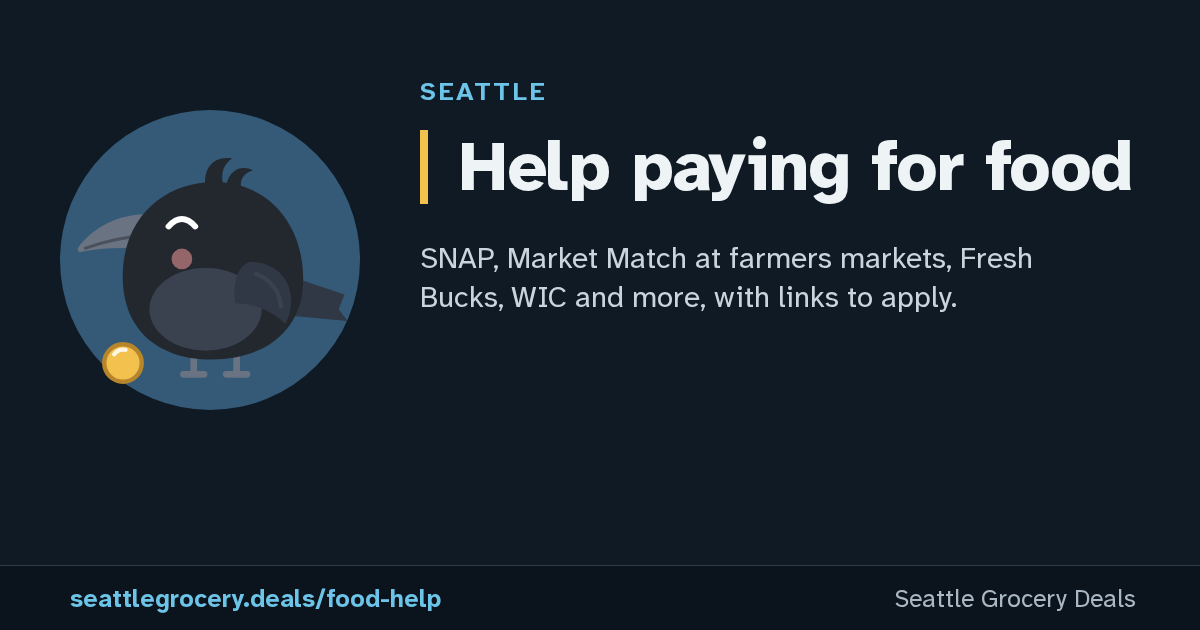
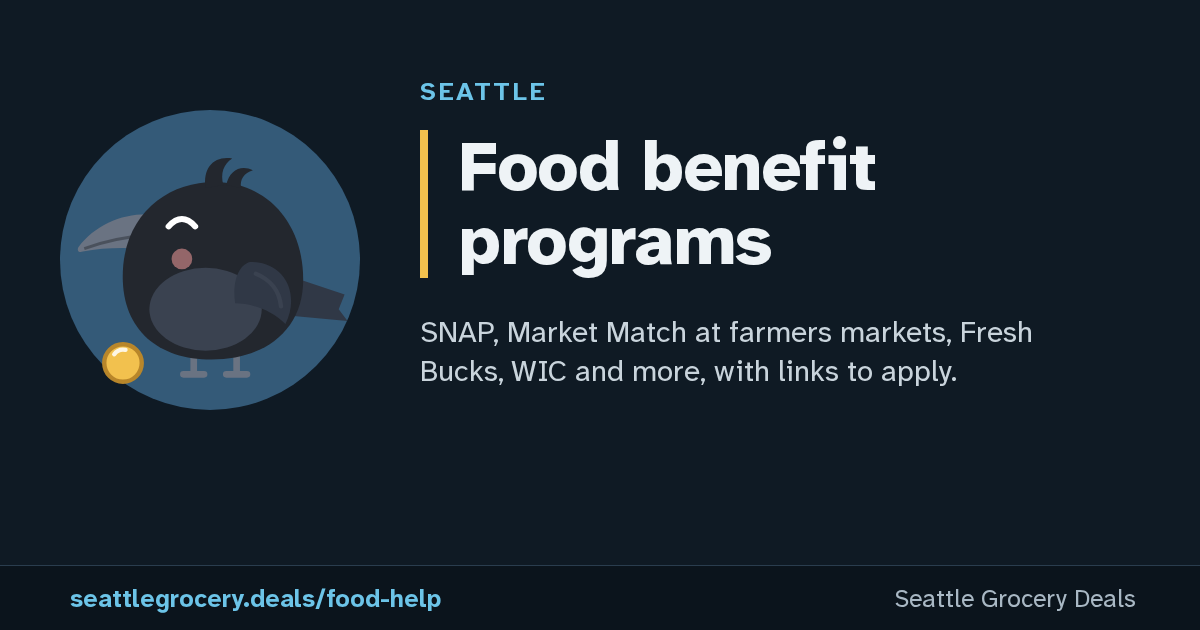
Rename Help paying for food to Food benefit programs, so it doesn't read as if the site offers help itself
Claude-Session: https://claude.ai/code/session_015KDcQCkLqAG3RoiTmjrTYD

Changed region(s): [[0.3392, 0.3317, 0.8633, 0.5429], [0.37, 0.2111, 0.9558, 0.3317], [0.3392, 0.573, 0.8017, 0.6032]]

diff --git a/HANDOFF.md b/HANDOFF.md
@@ -25,7 +25,7 @@ Updated 2026-11-14.
   - *To check on a device:* each Siri phrase ("What's on sale at Uwajimaya in Deals", "Plan my trip in Deals", "What on my list is on sale in Deals"); on iOS 27.3, a loose ask like "is salmon on sale this week?" with Deals named; both widgets on the Home and Lock Screens after changing Your stores; the control; a deal's Reminders link; iPad store cards side by side.
   - *Production Firebase (set up and switched on 2026-11-14):* project **Seattle Grocery Deals**, ID `seattle-grocery-deals`, number `553872012954`, Google Analytics and Gemini off, Apple app `deals.seattlegrocery` registered (app ID `1:553872012954:ios:a3fff0efe6e0956ee79123`), APNs key `62XWUGPJN9` uploaded for development and production (by the owner). `push-sender@seattle-grocery-deals.iam.gserviceaccount.com` has only "Firebase Cloud Messaging API Admin", behind Workload Identity pool `github`, provider `seattle-grocery-deals`, limited to this repo exactly like the dev project's (checked side by side). The `notify` job in `pages.yml` signs in to both projects and sends every push to both (a production failure only warns, and its sign-in step can't fail the job). **Which app uses which:** `Push.options()` picks by bundle ID: Deals Dev (`.dev`, internal TestFlight) and any Debug build stay on `seattle-grocery-deals-dev` (`GoogleService-Info-Dev.plist`); Deals in Release (public TestFlight, later the App Store) uses `GoogleService-Info-Prod.plist`. Public TestFlight testers move to production with their next build; until then the dev send still reaches them. Remote Config has the `in_app_message` parameter on the new project too, set empty (the dev project's value is a test card for Deals Dev). The new project's iOS API key only works from `deals.seattlegrocery` (and its API list was already limited by Firebase); the dev project's key has no app restriction yet.
 - **Deals Dev is its own TestFlight app (2026-11-14, branch `deals-dev-app`, owner's call):** internal and public TestFlight builds shared a bundle ID, so only one could be on a phone. Now there are two apps from one codebase: `DealsDev` + `DealsDevWidget` (scheme "Deals Dev", `deals.seattlegrocery.dev`, "Deals Dev", DEV icon, developer menu always on via `Dev/Info.plist`) for internal TestFlight on `dev-` tags, and `GroceryDeals` + `DealsWidget` (`deals.seattlegrocery`) for public TestFlight on `beta-` tags and later the App Store. Both are built from templates in `project.yml`. `ci_post_clone.sh` no longer swaps the icon or name. Needs the owner to make the Deals Dev App Store Connect record and its Xcode Cloud product with a "TestFlight" workflow (tags `dev-*`, scheme "Deals Dev", internal testing, `KITCHEN_GITHUB_TOKEN` secret); then the old `v*` workflow on Deals can go. See `apple/README.md`.
-- **Help paying for food page (2026-11-14, pushed to `main`):** `/food-help/` (`foodHelpPage` in build.mjs) explains Basic Food (SNAP and the state FAP), SNAP Market Match and SNAP Produce Rewards at farmers markets, Fresh Bucks, WIC, SUN Bucks, the Senior Farmers Market Nutrition Program and food banks, in plain words, each linking to its official page to check or apply. Owner's call: food assistance is part of the site's focus, but not prominent, since most people using the site won't need it. So it's linked only from the footer, one line in About's Good to know, the Privacy page, and a quiet Fresh Bucks note on store pages with `fresh_bucks: true` in `config/stores.json` (only Central Co-op so far, from the City's retailer lists; per-store EBT wasn't confirmed, so the page points to the USDA SNAP Retailer Locator instead of claiming it store by store). Privacy: the page loads no analytics at all (`page({ analytics: false })`), and links to it carry `data-no-track`, which `client/analytics.js` leaves out of click autocapture, so nobody is counted for looking at it; the page and the Privacy page say so. That's why the feature has no Amplitude events. Program details change: the page shows a "Checked" date (`CHECKED` in `foodHelpPage`); recheck each section against its official page now and then. Food banks stay as links to the Seattle Food Committee and City maps and 211, not listings (owner asked; hours change too often to keep here). Share image: `node scripts/food-help-og.mjs`. Next, from the same conversation: farmers markets and a curated list of independent shops (butchers, fishmongers, specialty grocers) as new kinds of entries without deals, with Pike Place as one hub of its food vendors; the owner's vetted list is in his "Grocery Deals: markets and independents to vet" sheet.
+- **Food benefit programs page (2026-11-14, pushed to `main`; renamed from "Help paying for food" the same day, owner's call, because that name read as if the site itself offered help):** `/food-help/` (`foodHelpPage` in build.mjs) explains Basic Food (SNAP and the state FAP), SNAP Market Match and SNAP Produce Rewards at farmers markets, Fresh Bucks, WIC, SUN Bucks, the Senior Farmers Market Nutrition Program and food banks, in plain words, each linking to its official page to check or apply. Owner's call: food assistance is part of the site's focus, but not prominent, since most people using the site won't need it. So it's linked only from the footer, one line in About's Good to know, the Privacy page, and a quiet Fresh Bucks note on store pages with `fresh_bucks: true` in `config/stores.json` (only Central Co-op so far, from the City's retailer lists; per-store EBT wasn't confirmed, so the page points to the USDA SNAP Retailer Locator instead of claiming it store by store). Privacy: the page loads no analytics at all (`page({ analytics: false })`), and links to it carry `data-no-track`, which `client/analytics.js` leaves out of click autocapture, so nobody is counted for looking at it; the page and the Privacy page say so. That's why the feature has no Amplitude events. Program details change: the page shows a "Checked" date (`CHECKED` in `foodHelpPage`); recheck each section against its official page now and then. Food banks stay as links to the Seattle Food Committee and City maps and 211, not listings (owner asked; hours change too often to keep here). Share image: `node scripts/food-help-og.mjs`. Next, from the same conversation: farmers markets and a curated list of independent shops (butchers, fishmongers, specialty grocers) as new kinds of entries without deals, with Pike Place as one hub of its food vendors; the owner's vetted list is in his "Grocery Deals: markets and independents to vet" sheet.
 - **Recipe ideas on a deal (2026-11-14, branch `recipe-ideas`, PR #44; built clean for the simulator on the Mac with the Xcode beta from a worktree at `~/Developer/seattle-grocery-deals-recipes`, not yet looked at on screen because `recipes.json` is not live until this merges):** swipe a deal's sheet up and there's a "Recipe ideas" row for that ingredient: cards with the recipe's photo, name, site and time, each opening the recipe on its own site in Safari's viewer, and a last card that opens the recipe search for the rest. The season screen has the same row under the facts. How it works: the site build makes `/api/recipes.json` (`scripts/recipes.mjs`, called from build.mjs after popular.json) by reading the recipe search index (`kylepace.dev/recipe-search/index.json`) and keeping up to six recipes per item key on sale, at most two per creator, with extra vegetarian ones when the first six are short on them (the app shows only those when Vegetarian is on). Ranking: the ingredient in the recipe's name first, then what people open, with ties shuffled by a number that holds for the week, so ideas change with the deals. Keys are matched by id, then the same words in another order (`pork-ground` is the index's `ground-pork`), then the catalog parent for staples only (Atlantic salmon gets salmon's; beef feet and tripe get none). Only deals with an `item_key` get ideas: 162 of 671 this week, 69 ingredients, about 22 KB gzipped. It's done at build time, not from the phone, so the app still only talks to this site and nobody learns which deal was opened; the one new outside contact is each photo loading from its recipe site (the Privacy page says so). If the index can't be read the build keeps the live copy, and failing that writes none; the app then shows no row. `RECIPES_INDEX=path` builds from a saved index. App: `RecipeFeed` (Models.swift), `recipes`, `refreshRecipes` and `recipeIdeas(for:)` (FeedStore.swift), `RecipeIdeas` (DealViews.swift, kept in existing files so the committed Xcode project needs no change). At the largest text sizes the row is a plain list without photos. Events to add to the Amplitude plan: Opened Recipe (`key`, `site`, `position`, `from`: deal or season), Opened Recipe Search (`key`, `from`). To do once merged: run it and look at it at half and full height, on iPad, in dark mode and with large text; then a line in WhatToTest. Not built, ideas for more places: "Cook from your list" on the List tab (recipes that use several things on it), a store page row ("Cook from this week at Uwajimaya"), ideas on the site (it has no deal detail yet) and in the MCP server's answers.
 - **Item stickers tried and scrapped (2026-11-13, owner's call):** for one evening deal rows (app and site) led with small drawings of each item, then quiet rows with a sticker, then standout cards on This week and section stickers on the Aisles tiles. The owner found them repetitive and cluttered (about half the deals showed a stand-in: their section's drawing or a more general item's) and had everything reverted to how it was before. The drawings are still in KitchenCatalog (`stickers/stickers.json`, `js/stickers.mjs`, `tools/build-stickers.mjs`, 153 items and every store section) if they're ever wanted again; nothing in this repo uses them. Ideas the owner liked along the way, not built: rows with one control on the right and the price on the detail line, and a store's standouts as cards to swipe through.
 - **Onboarding: alerts on to start, sharing leads on the usage question (2026-11-13, owner's call; built clean for the simulator on the Mac):** the owner hadn't turned alerts on and missed the T&T push. In the alerts step both switches now start on for a first run (`wantNewDeals`, `wantEnding` in Welcome.swift; a replayed tour still shows what's set), so the main button reads "Turn on alerts" and asks the iPhone for permission; switching both off or tapping Skip leaves them off. On the usage question, "Share anonymous usage" is the filled button and "Don't share" is a plain text button under it (still full width, 44 points, nothing chosen ahead of time): `UsageQuestion.Emphasis.share`, new in KitchenUI (`Onboarding.swift`, default `.equal`, so Henwood is unchanged until it opts in). People who already answered aren't asked again.
